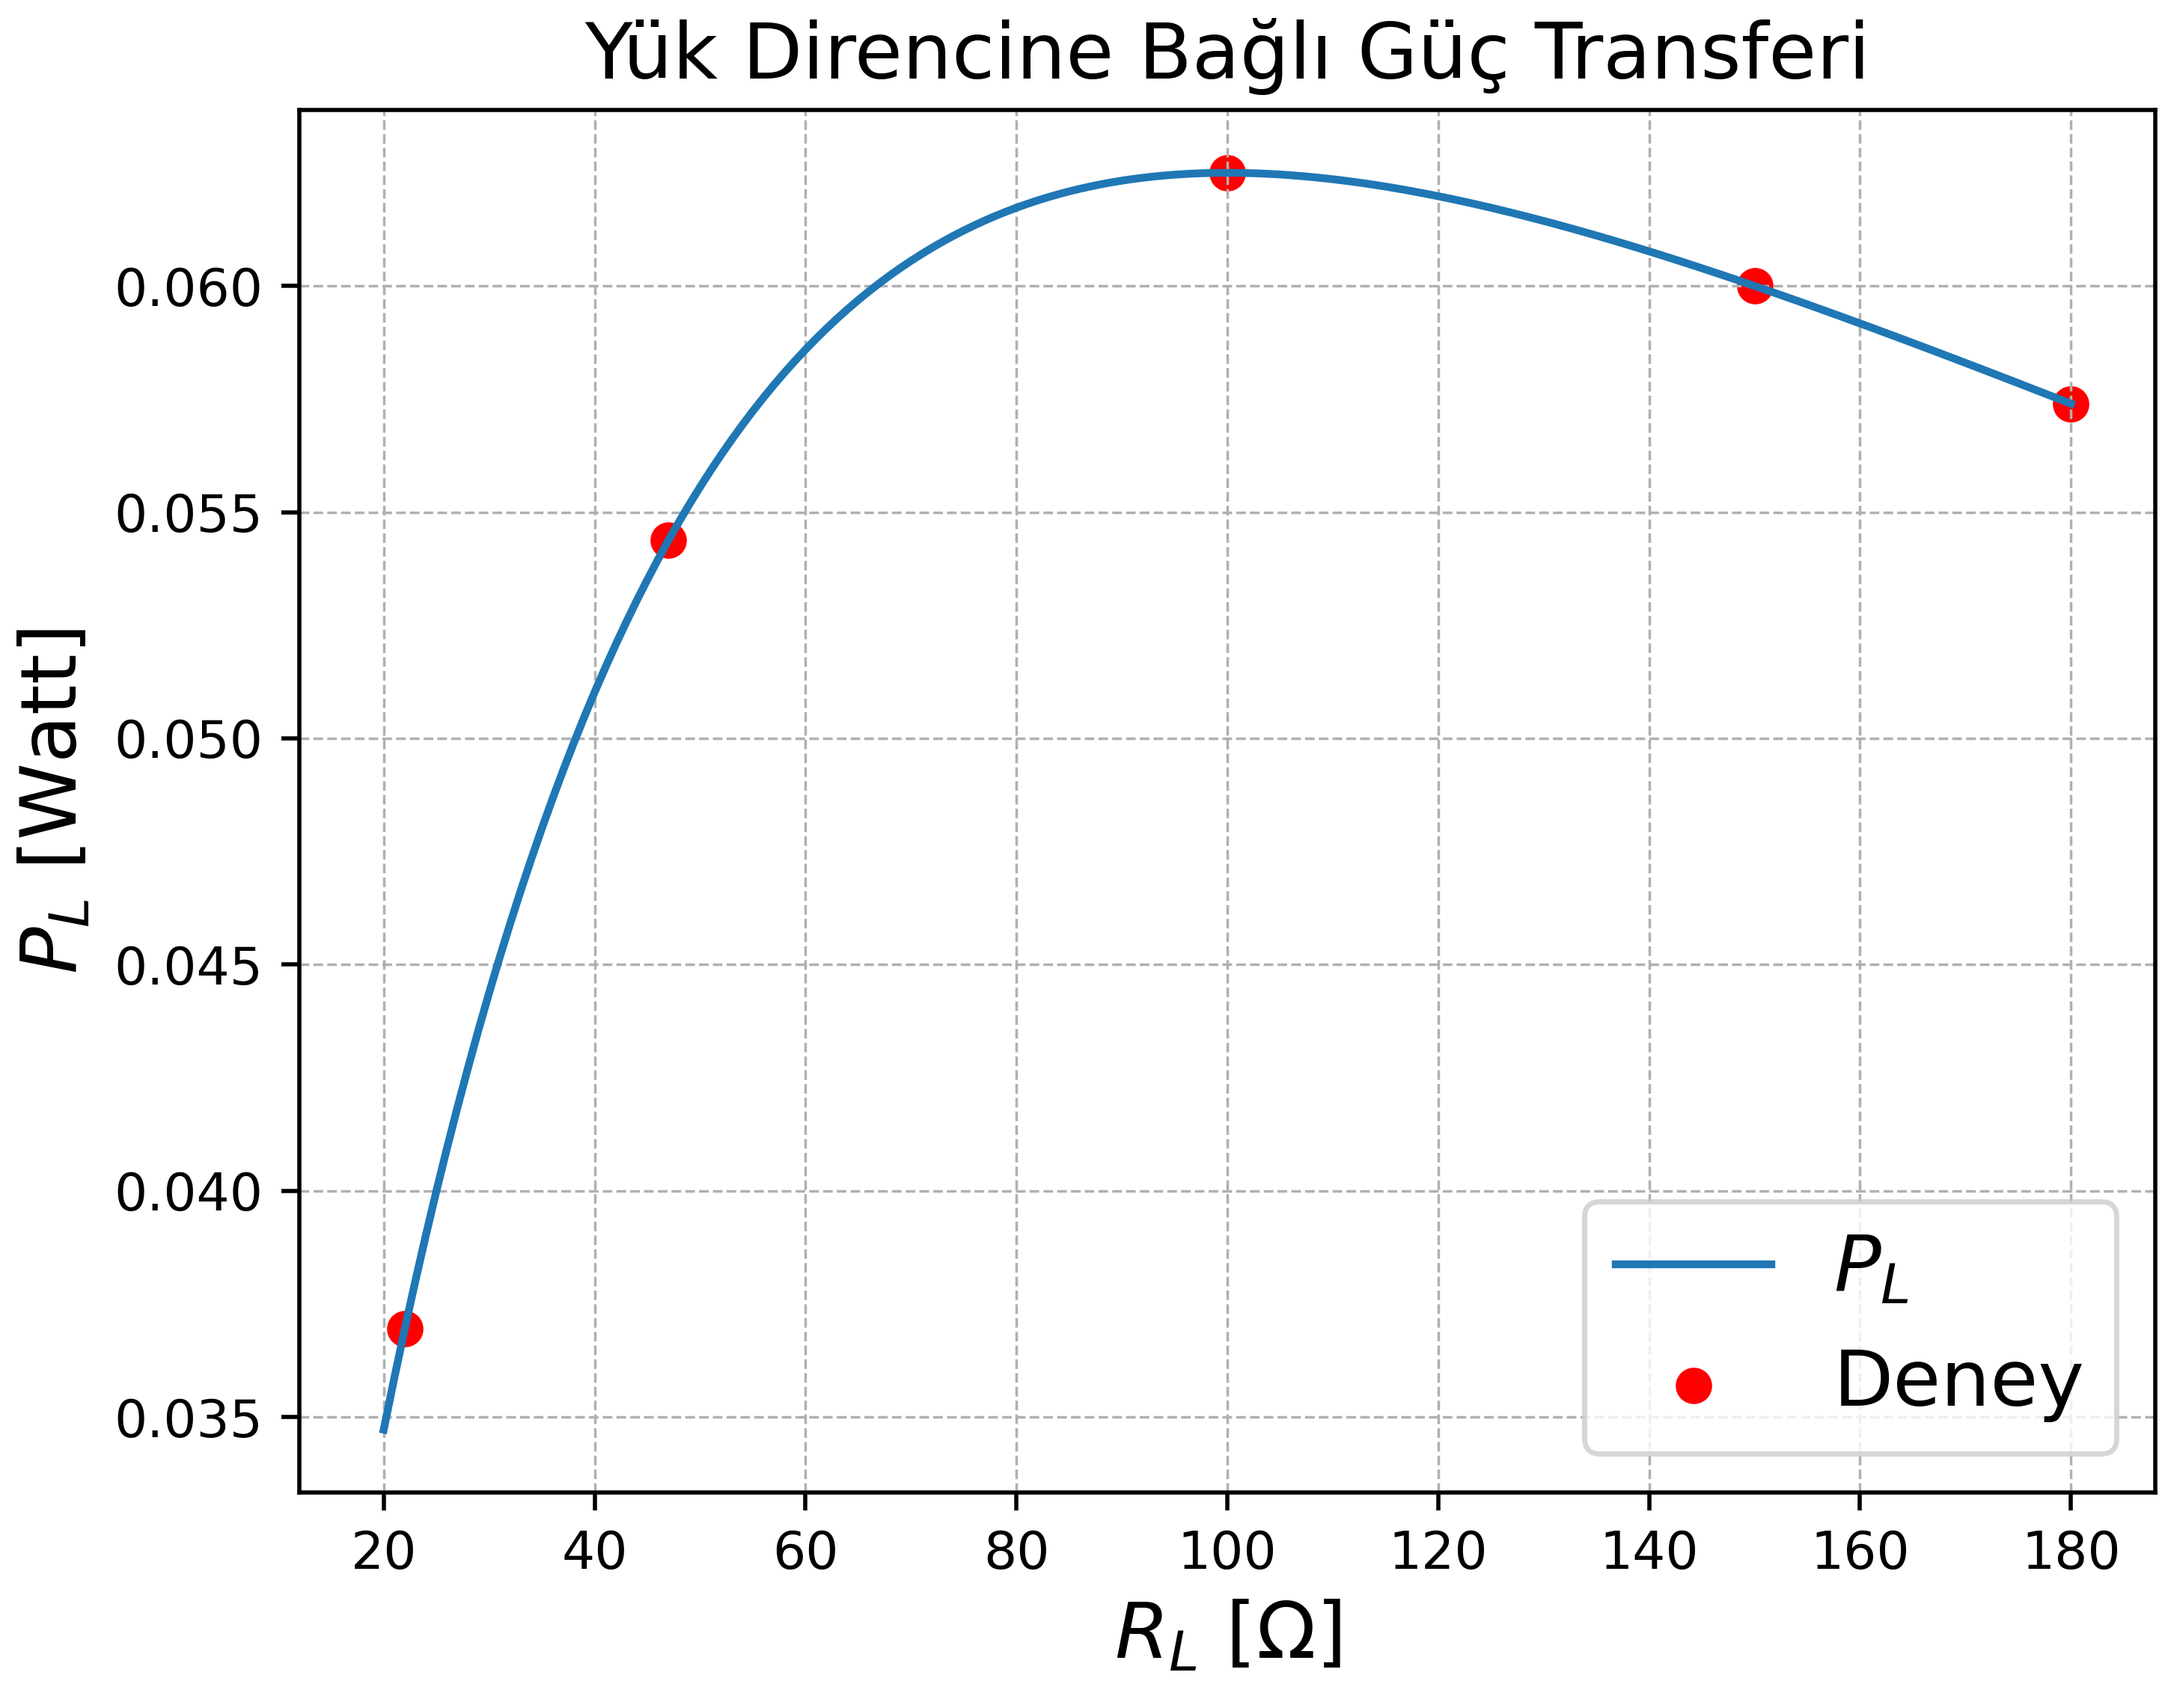
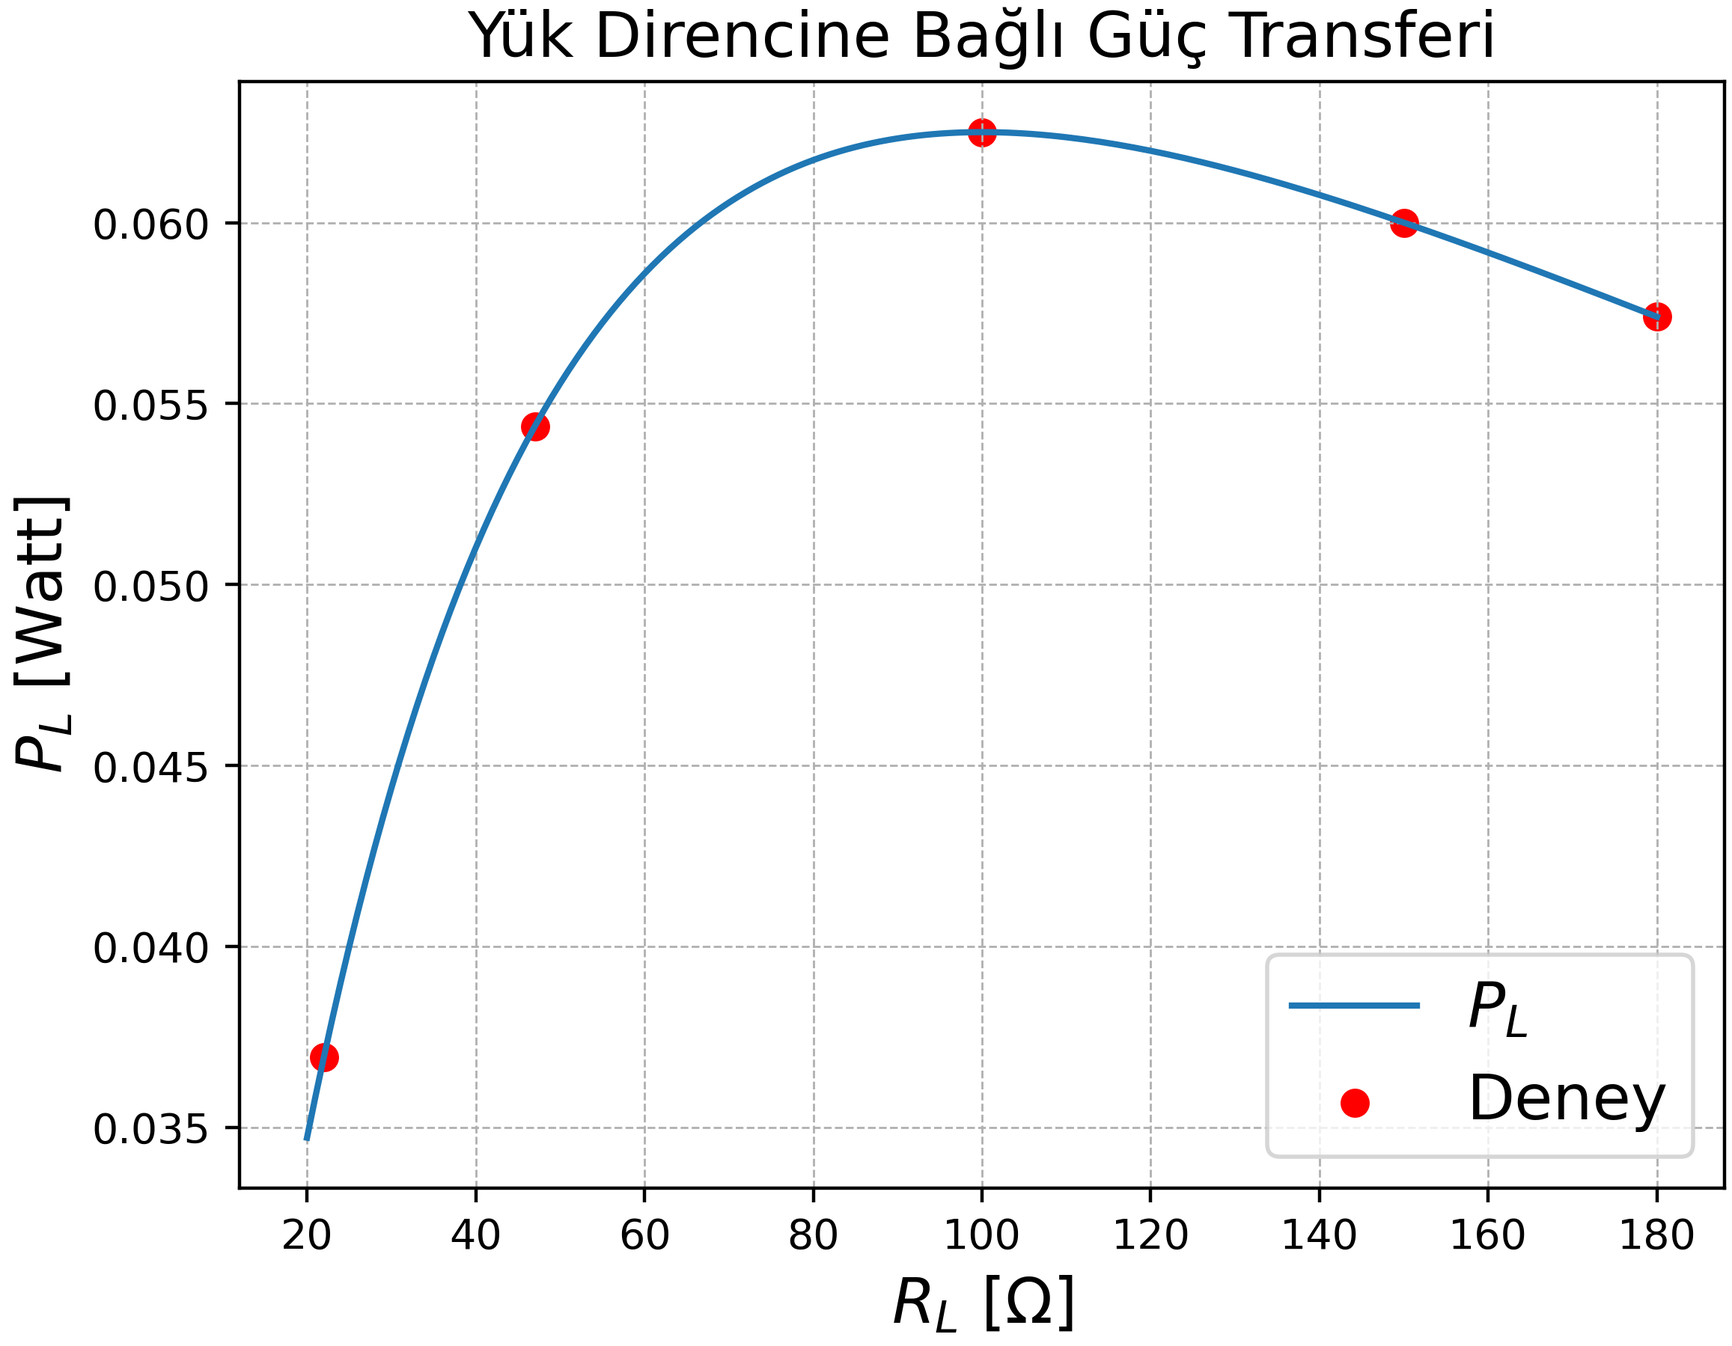
sixth commit

diff --git a/max-power-transfer.py b/max-power-transfer.py
@@ -21,5 +21,5 @@ plt.ylabel(r"$P_L$ [Watt]", fontsize=15)
 plt.title("Yük Direncine Bağlı Güç Transferi", fontsize=15)
 plt.legend(fontsize=15)
 plt.grid(True, which='both', linestyle='--', linewidth=0.5)
-plt.savefig("maksimum_guc_transferi.png", dpi=500)
+plt.savefig("maksimum_guc_transferi.png", dpi=400)
 plt.show()
